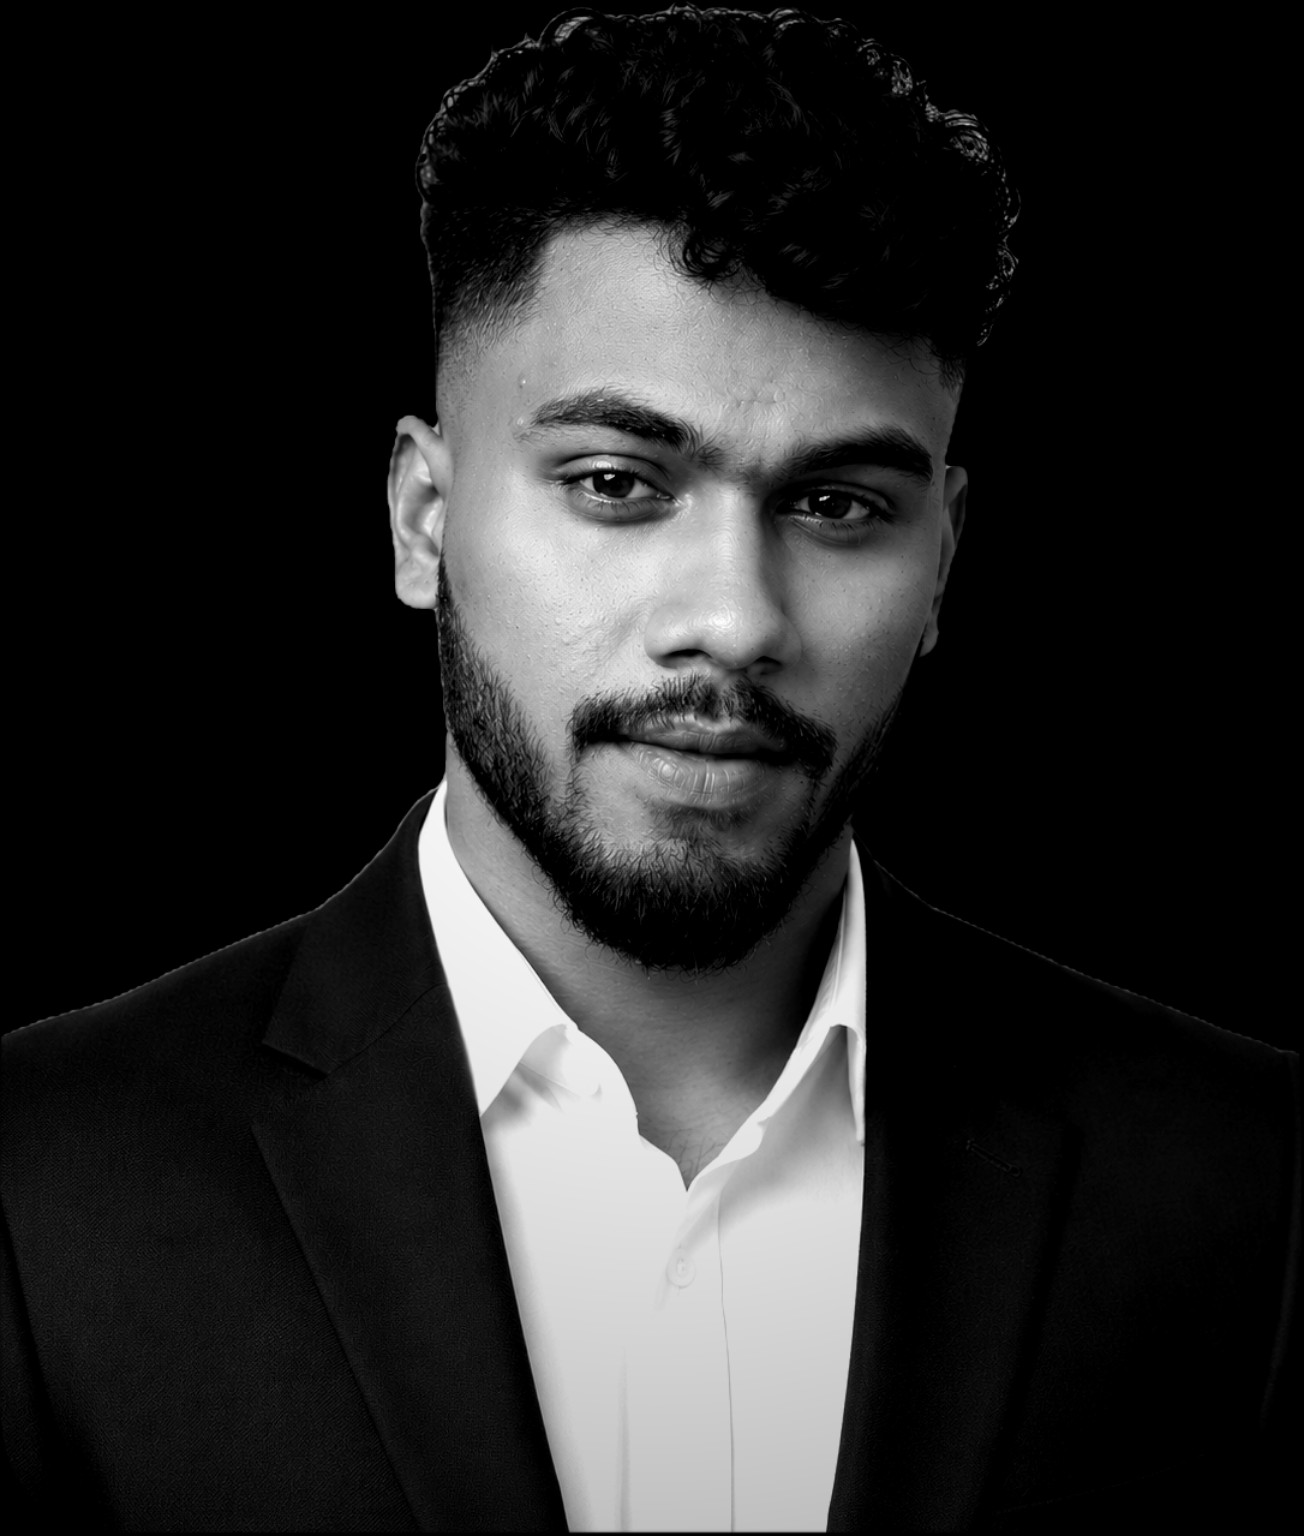
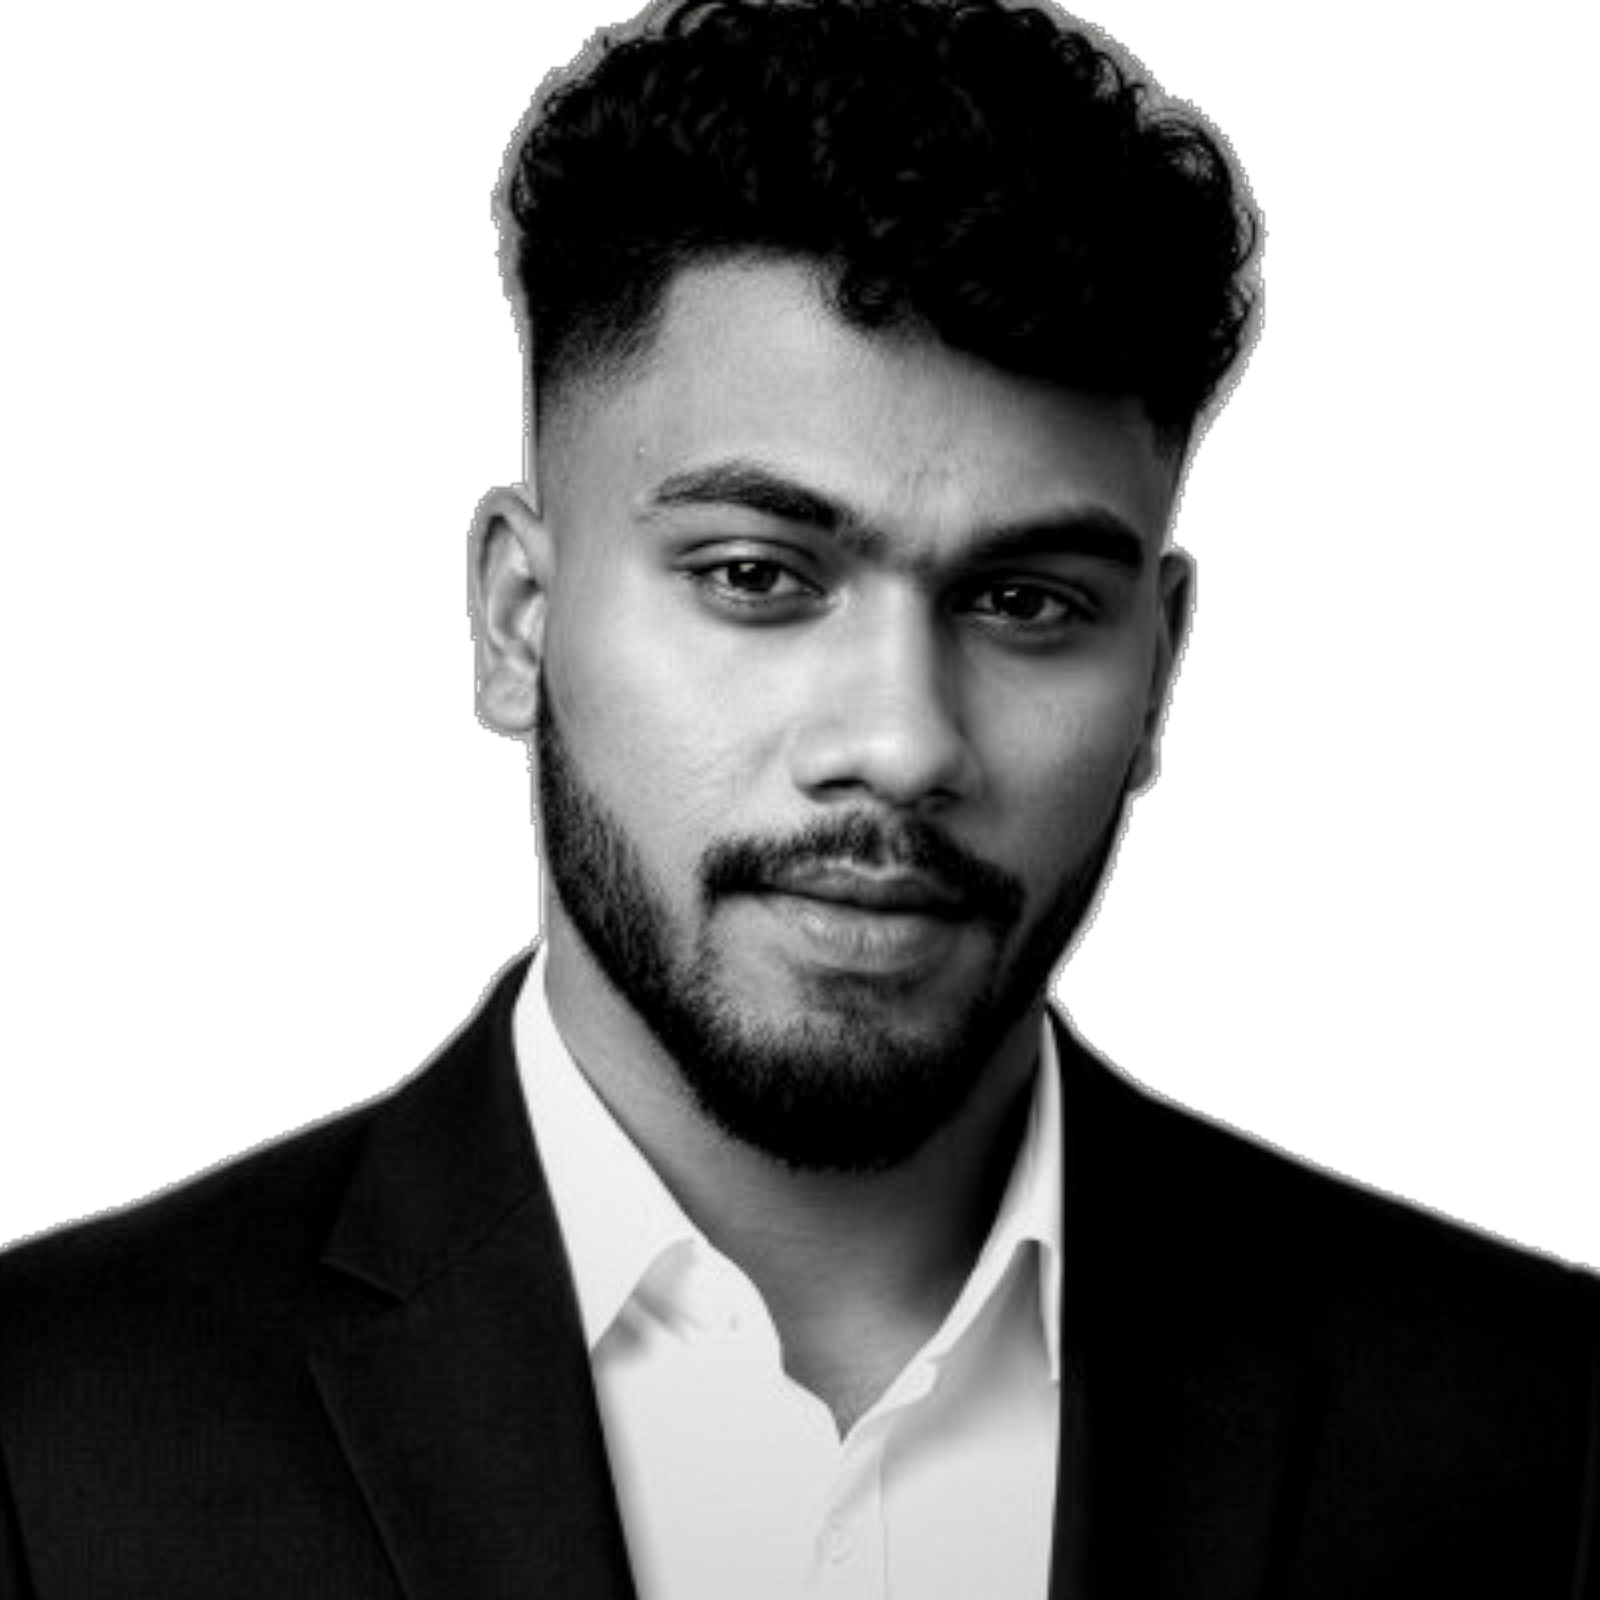
Fix hero portrait blend, remove black box

diff --git a/app/page.jsx b/app/page.jsx
@@ -1,9 +1,9 @@
 "use client";
 
-import ShaderAurora from "@/components/ShaderAurora";
-import FlickerPortrait from "@/components/FlickerPortrait";
+import Image from "next/image";
 import { motion, AnimatePresence } from "framer-motion";
 import { useState, useEffect } from "react";
+import ShaderAurora from "@/components/ShaderAurora";
 
 const fadeUp = {
   hidden: { opacity: 0, y: 40, filter: "blur(6px)" },
@@ -77,8 +77,11 @@ export default function Page() {
           background: scrolled ? "rgba(0, 0, 0, 0.55)" : "transparent",
           backdropFilter: scrolled ? "blur(20px) saturate(180%)" : "none",
           WebkitBackdropFilter: scrolled ? "blur(20px) saturate(180%)" : "none",
-          borderBottom: scrolled ? "1px solid rgba(255,255,255,0.06)" : "1px solid transparent",
-          transition: "background 300ms ease, border-color 300ms ease, backdrop-filter 300ms ease",
+          borderBottom: scrolled
+            ? "1px solid rgba(255,255,255,0.06)"
+            : "1px solid transparent",
+          transition:
+            "background 300ms ease, border-color 300ms ease, backdrop-filter 300ms ease",
         }}
         className="px-6 sm:px-10 py-4 sm:py-5 flex items-center justify-between"
       >
@@ -90,12 +93,25 @@ export default function Page() {
           Prapul Upendrakumar
         </a>
 
-        <div className="hidden md:flex gap-8 text-[14px] font-normal text-white/80 pointer-events-auto" style={{ letterSpacing: "-0.06px" }}>
-          <a href="#about" className="hover:text-white transition-colors">About</a>
-          <a href="#work" className="hover:text-white transition-colors">Work</a>
-          <a href="#toolkit" className="hover:text-white transition-colors">Toolkit</a>
-          <a href="#building" className="hover:text-white transition-colors">Building</a>
-          <a href="#contact" className="hover:text-white transition-colors">Contact</a>
+        <div
+          className="hidden md:flex gap-8 text-[14px] font-normal text-white/80 pointer-events-auto"
+          style={{ letterSpacing: "-0.06px" }}
+        >
+          <a href="#about" className="hover:text-white transition-colors">
+            About
+          </a>
+          <a href="#work" className="hover:text-white transition-colors">
+            Work
+          </a>
+          <a href="#toolkit" className="hover:text-white transition-colors">
+            Toolkit
+          </a>
+          <a href="#building" className="hover:text-white transition-colors">
+            Building
+          </a>
+          <a href="#contact" className="hover:text-white transition-colors">
+            Contact
+          </a>
         </div>
 
         <a
@@ -107,47 +123,45 @@ export default function Page() {
         </a>
       </motion.nav>
 
-      {/* CONTENT */}
-      <main
+      {/* HERO — full viewport width */}
+      <section
+        className="min-h-screen relative overflow-hidden"
         style={{ position: "relative", zIndex: 10, pointerEvents: "none" }}
-        className="max-w-[1400px] mx-auto"
       >
-        {/* HERO — Full-bleed portrait background */}
-        <section className="min-h-screen relative overflow-hidden">
-          
-          {/* Big background portrait — right-anchored, full height */}
+        {/* Portrait */}
+        <div
+          className="absolute inset-0 pointer-events-none"
+          style={{ zIndex: 5 }}
+        >
           <div
-            className="absolute inset-0 pointer-events-none"
-            style={{ zIndex: 5 }}
+            className="absolute right-0 top-0"
+            style={{
+              width: "min(60vw, 900px)",
+              height: "100%",
+              maskImage:
+                "linear-gradient(to bottom, black 50%, transparent 100%), linear-gradient(to right, transparent 0%, black 20%)",
+              WebkitMaskImage:
+                "linear-gradient(to bottom, black 50%, transparent 100%), linear-gradient(to right, transparent 0%, black 20%)",
+              maskComposite: "intersect",
+              WebkitMaskComposite: "destination-in",
+            }}
           >
-            <div
-              className="absolute h-full"
-              style={{
-                right: "0",
-                top: "0",
-                width: "min(60vw, 900px)",
-                height: "100vh",
-              }}
-            >
-              <FlickerPortrait
-                src="/prapulimage.png"
-                alt="Prapul Upendrakumar"
-                priority
-              />
-            </div>
-
-            {/* Subtle gradient to help text readability on left */}
-            <div
-              className="absolute inset-0"
-              style={{
-                background:
-                  "linear-gradient(to right, rgba(0,0,0,0.75) 0%, rgba(0,0,0,0.5) 40%, rgba(0,0,0,0.2) 70%, transparent 100%)",
-              }}
+            <Image
+              src="/prapulimage.png"
+              alt="Prapul Upendrakumar"
+              fill
+              priority
+              className="object-cover object-top"
+              sizes="(max-width: 1024px) 100vw, 900px"
             />
           </div>
+        </div>
 
-          {/* Hero content — floats on top */}
-          <div className="relative min-h-screen flex flex-col justify-end px-6 sm:px-10 pb-24 pt-40" style={{ zIndex: 10 }}>
+        {/* Hero text content */}
+        <div
+          className="relative min-h-screen flex flex-col justify-end px-6 sm:px-10 pb-24 pt-40 max-w-[1400px] mx-auto"
+          style={{ zIndex: 10 }}
+        >
             <motion.div
               initial="hidden"
               animate="visible"
@@ -171,7 +185,8 @@ export default function Page() {
                 variants={fadeUp}
                 className="text-white"
                 style={{
-                  fontFamily: "'Helvetica Neue', ui-sans-serif, system-ui, sans-serif",
+                  fontFamily:
+                    "'Helvetica Neue', ui-sans-serif, system-ui, sans-serif",
                   fontWeight: 400,
                   fontSize: "clamp(52px, 12vw, 140px)",
                   lineHeight: 0.9,
@@ -186,7 +201,8 @@ export default function Page() {
                 variants={fadeUp}
                 className="text-white/80 mb-12"
                 style={{
-                  fontFamily: "'Helvetica Neue', ui-sans-serif, system-ui, sans-serif",
+                  fontFamily:
+                    "'Helvetica Neue', ui-sans-serif, system-ui, sans-serif",
                   fontWeight: 400,
                   fontSize: "clamp(28px, 5vw, 56px)",
                   lineHeight: 1,
@@ -207,8 +223,8 @@ export default function Page() {
                 }}
               >
                 SOC analyst focused on detection engineering, threat hunting,
-                and cloud security — with hands-on exposure to AI-assisted
-                log analysis and SIEM investigations.
+                and cloud security — with hands-on exposure to AI-assisted log
+                analysis and SIEM investigations.
               </motion.p>
 
               <motion.div
@@ -220,16 +236,29 @@ export default function Page() {
                   letterSpacing: "-0.06px",
                 }}
               >
-                <a href="#about" className="hover:text-white transition-colors">
+                <a
+                  href="#about"
+                  className="hover:text-white transition-colors"
+                >
                   Scroll ↓
                 </a>
               </motion.div>
             </motion.div>
-          </div>
-        </section>
+        </div>
+      </section>
 
+      {/* CONTENT */}
+      <main
+        style={{ position: "relative", zIndex: 10, pointerEvents: "none" }}
+        className="max-w-[1400px] mx-auto"
+      >
         {/* ABOUT */}
-        <EditorialSection id="about" label="ABOUT" number="(01)" sublabel="Introduction">
+        <EditorialSection
+          id="about"
+          label="ABOUT"
+          number="(01)"
+          sublabel="Introduction"
+        >
           <motion.h3
             variants={fadeUp}
             className="text-white mb-10 max-w-[900px]"
@@ -241,8 +270,8 @@ export default function Page() {
               letterSpacing: "clamp(-0.4px, -0.012em, -0.62px)",
             }}
           >
-            Focused on Security Operations, with hands-on exposure to
-            cloud environments and modern security tools.
+            Focused on Security Operations, with hands-on exposure to cloud
+            environments and modern security tools.
           </motion.h3>
           <motion.p
             variants={fadeUp}
@@ -260,7 +289,12 @@ export default function Page() {
         </EditorialSection>
 
         {/* SECURITY WORK */}
-        <EditorialSection id="work" label="EXPLORE" number="(02)" sublabel="Selected Work">
+        <EditorialSection
+          id="work"
+          label="EXPLORE"
+          number="(02)"
+          sublabel="Selected Work"
+        >
           <motion.h3
             variants={fadeUp}
             className="text-white mb-16 max-w-[900px]"
@@ -321,7 +355,12 @@ export default function Page() {
         </EditorialSection>
 
         {/* TOOLKIT */}
-        <EditorialSection id="toolkit" label="TOOLKIT" number="(03)" sublabel="Skills & Stack">
+        <EditorialSection
+          id="toolkit"
+          label="TOOLKIT"
+          number="(03)"
+          sublabel="Skills & Stack"
+        >
           <motion.h3
             variants={fadeUp}
             className="text-white mb-16 max-w-[900px]"
@@ -343,17 +382,40 @@ export default function Page() {
             viewport={{ once: true, amount: 0.2 }}
             className="space-y-10 max-w-[1100px]"
           >
-            <SkillLine title="Security & Detection" items="IDS/IPS · NIST IR · Cyber Kill Chain · MITRE ATT&CK · Threat Hunting" />
-            <SkillLine title="Cloud Security" items="AWS · CloudTrail · Athena · EventBridge · Lambda · IAM · Sigma" />
-            <SkillLine title="SIEM & Query" items="Splunk · ELK · Wazuh · KQL · Kusto · Wireshark · Scapy" />
-            <SkillLine title="AI & Analysis" items="LLM Prompt Engineering · Log Analysis · Scikit-learn · Model Evaluation" />
-            <SkillLine title="Programming" items="Python · Flask · SQL · Trino · Git · Linux" />
-            <SkillLine title="Web Development" items="React · Next.js · Tailwind · Framer Motion · Vercel" />
+            <SkillLine
+              title="Security & Detection"
+              items="IDS/IPS · NIST IR · Cyber Kill Chain · MITRE ATT&CK · Threat Hunting"
+            />
+            <SkillLine
+              title="Cloud Security"
+              items="AWS · CloudTrail · Athena · EventBridge · Lambda · IAM · Sigma"
+            />
+            <SkillLine
+              title="SIEM & Query"
+              items="Splunk · ELK · Wazuh · KQL · Kusto · Wireshark · Scapy"
+            />
+            <SkillLine
+              title="AI & Analysis"
+              items="LLM Prompt Engineering · Log Analysis · Scikit-learn · Model Evaluation"
+            />
+            <SkillLine
+              title="Programming"
+              items="Python · Flask · SQL · Trino · Git · Linux"
+            />
+            <SkillLine
+              title="Web Development"
+              items="React · Next.js · Tailwind · Framer Motion · Vercel"
+            />
           </motion.div>
         </EditorialSection>
 
         {/* ALSO BUILDING */}
-        <EditorialSection id="building" label="ALSO BUILDING" number="(04)" sublabel="Web Experiences">
+        <EditorialSection
+          id="building"
+          label="ALSO BUILDING"
+          number="(04)"
+          sublabel="Web Experiences"
+        >
           <motion.h3
             variants={fadeUp}
             className="text-white mb-10 max-w-[900px]"
@@ -413,7 +475,12 @@ export default function Page() {
         </EditorialSection>
 
         {/* CONTACT */}
-        <EditorialSection id="contact" label="CONTACT" number="(05)" sublabel="Get in Touch">
+        <EditorialSection
+          id="contact"
+          label="CONTACT"
+          number="(05)"
+          sublabel="Get in Touch"
+        >
           <motion.h3
             variants={fadeUp}
             className="text-white mb-16 max-w-[900px]"
@@ -435,10 +502,26 @@ export default function Page() {
             viewport={{ once: true, amount: 0.2 }}
             className="grid sm:grid-cols-2 gap-8 sm:gap-12 pointer-events-auto max-w-[900px]"
           >
-            <ContactLine label="Email" value="prapul.2004@gmail.com" href="mailto:prapul.2004@gmail.com" />
-            <ContactLine label="WhatsApp" value="Chat directly" href={WHATSAPP_LINK} />
-            <ContactLine label="LinkedIn" value="linkedin.com/in/prapul123" href="https://linkedin.com/in/prapul123" />
-            <ContactLine label="GitHub" value="github.com/Prapul1" href="https://github.com/Prapul1" />
+            <ContactLine
+              label="Email"
+              value="prapul.2004@gmail.com"
+              href="mailto:prapul.2004@gmail.com"
+            />
+            <ContactLine
+              label="WhatsApp"
+              value="Chat directly"
+              href={WHATSAPP_LINK}
+            />
+            <ContactLine
+              label="LinkedIn"
+              value="linkedin.com/in/prapul123"
+              href="https://linkedin.com/in/prapul123"
+            />
+            <ContactLine
+              label="GitHub"
+              value="github.com/Prapul1"
+              href="https://github.com/Prapul1"
+            />
           </motion.div>
         </EditorialSection>
 
@@ -632,7 +715,10 @@ function WebProjectRow({ index, title, subtitle, stack, link, status }) {
         >
           {title}
         </h4>
-        <p className="text-white/60 text-[14px] sm:text-[15px]" style={{ letterSpacing: "-0.06px" }}>
+        <p
+          className="text-white/60 text-[14px] sm:text-[15px]"
+          style={{ letterSpacing: "-0.06px" }}
+        >
           {subtitle}
         </p>
       </div>
@@ -646,7 +732,10 @@ function WebProjectRow({ index, title, subtitle, stack, link, status }) {
       </div>
       <div className="col-span-12 sm:col-span-1 flex justify-start sm:justify-end items-start">
         {status ? (
-          <span className="text-white/40 text-[13px] italic" style={{ fontFamily: "'Times', serif" }}>
+          <span
+            className="text-white/40 text-[13px] italic"
+            style={{ fontFamily: "'Times', serif" }}
+          >
             {status}
           </span>
         ) : (
@@ -664,7 +753,10 @@ function WebProjectRow({ index, title, subtitle, stack, link, status }) {
 
 function SkillLine({ title, items }) {
   return (
-    <motion.div variants={fadeUp} className="grid grid-cols-12 gap-6 pb-6 border-b border-white/10">
+    <motion.div
+      variants={fadeUp}
+      className="grid grid-cols-12 gap-6 pb-6 border-b border-white/10"
+    >
       <div className="col-span-12 sm:col-span-3">
         <h4
           className="text-white"
@@ -717,7 +809,9 @@ function ContactLine({ label, value, href }) {
         }}
       >
         {value}
-        <span className="text-white/40 group-hover:translate-x-1 transition-transform">↗</span>
+        <span className="text-white/40 group-hover:translate-x-1 transition-transform">
+          ↗
+        </span>
       </p>
     </motion.a>
   );
